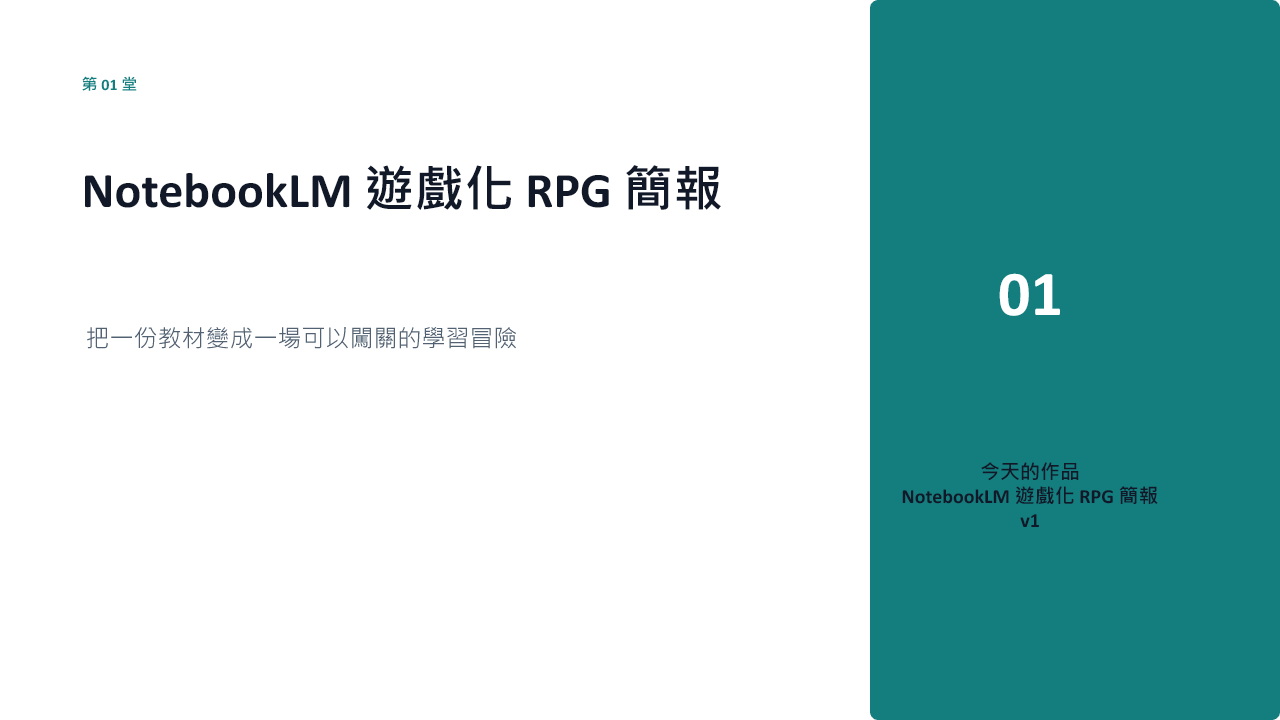
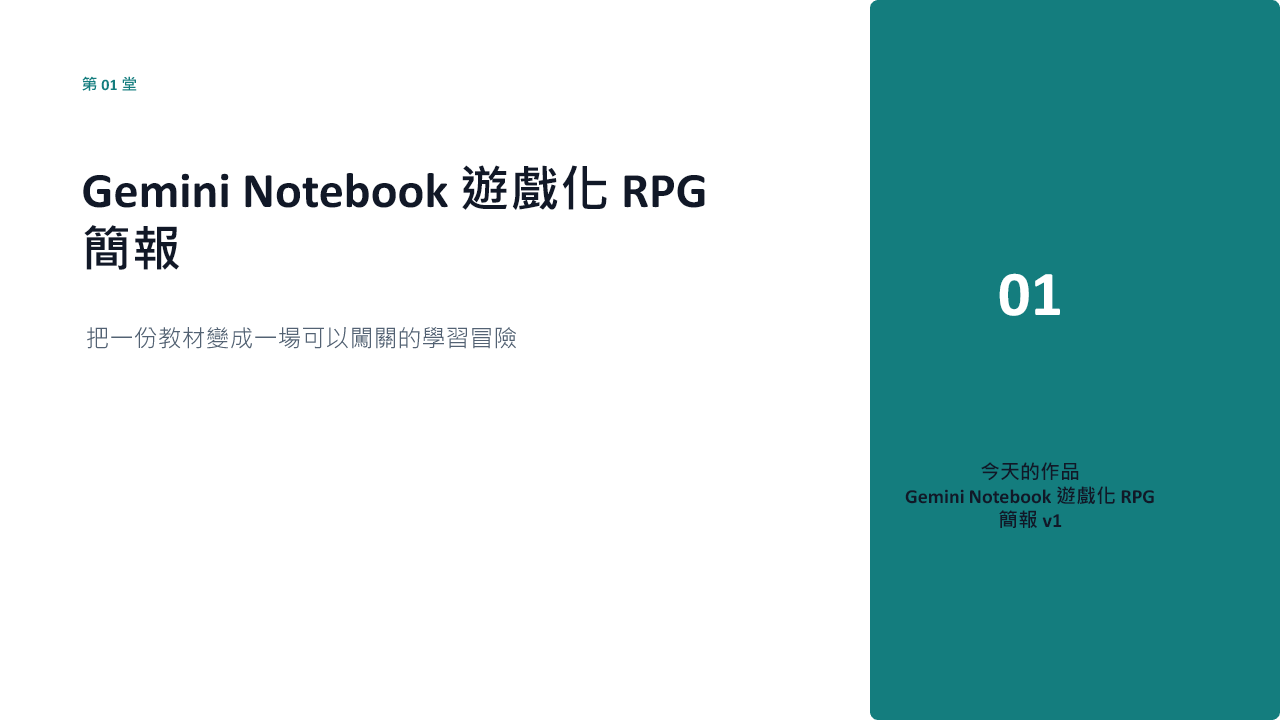
Rename lesson one to Gemini Notebook

Changed region(s): [[0.0625, 0.2139, 0.5625, 0.3667], [0.6875, 0.6722, 0.9062, 0.7333]]

diff --git a/class/index.html b/class/index.html
@@ -1,1 +1,1 @@
-<!doctype html><html lang="zh-Hant"><head><meta charset="utf-8"><meta name="viewport" content="width=device-width,initial-scale=1"><title>AI 工具實戰進階班｜CALUMAI</title><meta name="description" content="12 堂 AI 工具實戰進階課程"><link rel="stylesheet" href="/class/styles.css"></head><body><header><div class="shell nav"><a class="brand" href="/">CALUMAI <span>/ CLASS</span></a><nav><a href="#overview">總覽</a><a href="#lessons">12 堂</a><a href="#capstone">期末</a></nav></div></header><main><section class="hero shell" id="overview"><p class="eyebrow">AI TOOL PRACTICE / ADVANCED CLASS</p><h1>把 AI 工具，變成<br><em>你的教學與創作系統。</em></h1><p class="lede">12 堂從資料、工具、作品到發表的進階實戰課。每堂都有完整 PPT、課堂實作、提示詞與可驗收成果。</p><div class="chips"><span>12 堂完整課程</span><span>每堂一份 PPT</span><span>作品導向</span></div></section><section class="path shell"><div><b>01</b>NotebookLM RPG</div><i>→</i><div><b>02</b>Gemini 排課</div><i>→</i><div><b>03–05</b>題庫、自動化、上架</div><i>→</i><div><b>06–10</b>遊戲、Padlet、Vids</div><i>→</i><div><b>11–12</b>工具箱與發表</div></section><section class="lessons shell" id="lessons"><p class="eyebrow">THE 12 MISSIONS</p><h2>每一堂，都有一個可驗收成果。</h2><article class="l teal" id="lesson-01"><b class="no">01</b><div><small>NOTEBOOKLM / GAME DESIGN</small><h3>NotebookLM 遊戲化 RPG 簡報</h3><p>把教材轉成世界觀、角色、任務與關卡，完成 8–12 張 RPG 簡報。</p><dl><dt>學會</dt><dd>遊戲化規則、來源控管、任務設計</dd><dt>實作</dt><dd>用太魯閣語上課用語 PDF 做案例</dd><dt>交付</dt><dd>RPG 簡報 v1、來源與提問紀錄</dd></dl><a href="/class/lesson-01.html">查看第 1 堂 PPT、講義與提示詞</a></div></article><article class="l gold" id="lesson-02"><b class="no">02</b><div><small>GEMINI / PLANNING</small><h3>活用 Gemini：製作自己的排課行事曆</h3><p>整理課程、時段、地點與規則，讓 Gemini 協助找出衝堂並設計行事曆。</p><dl><dt>學會</dt><dd>需求拆解、欄位設計、排課規則</dd><dt>實作</dt><dd>建立自己的課程與時段資料</dd><dt>交付</dt><dd>排課行事曆原型與使用說明</dd></dl><a href="/class/lesson-02.html">查看第 2 堂 PPT、講義與提示詞</a></div></article><article class="l blue" id="lesson-03"><b class="no">03</b><div><small>VIBE CODING / PRODUCT</small><h3>Vibe 你的題庫：題庫產品設計</h3><p>用自然語言把題庫想法拆成使用者、題型、欄位、畫面流程與 MVP。</p><dl><dt>學會</dt><dd>用 Gemini 寫需求 brief</dd><dt>實作</dt><dd>規劃題庫資料結構與畫面</dd><dt>交付</dt><dd>需求 brief、欄位表、畫面草圖</dd></dl><a href="/class/lesson-03.html">查看第 3 堂 PPT、講義與提示詞</a></div></article><article class="l blue" id="lesson-04"><b class="no">04</b><div><small>GEMINI + GAS / AUTOMATION</small><h3>Gemini + GAS 自動化題庫</h3><p>讓題庫自動產生、整理、評分與留下紀錄，加入批次與錯誤處理。</p><dl><dt>學會</dt><dd>Apps Script、提示詞模板、結構化輸出</dd><dt>實作</dt><dd>Google Sheet 串接 Gemini</dd><dt>交付</dt><dd>題庫自動化工具與測試報告</dd></dl><a href="/class/lesson-04.html">查看第 4 堂 PPT、講義與提示詞</a></div></article><article class="l teal" id="lesson-05"><b class="no">05</b><div><small>GOOGLE SITES / NETLIFY</small><h3>讓你的網頁活起來：Google 協作平台與 Netlify 上架</h3><p>把作品整理成網站，學會導覽、嵌入、權限、預覽、發布與部署。</p><dl><dt>學會</dt><dd>內容結構、嵌入與發布檢查</dd><dt>實作</dt><dd>Google Sites 或 Netlify 上架</dd><dt>交付</dt><dd>可開啟、可分享的線上作品</dd></dl><a href="/class/lesson-05.html">查看第 5 堂 PPT、講義與提示詞</a></div></article><article class="l gold" id="lesson-06"><b class="no">06</b><div><small>GAME GENERATION / FIVE FORMS</small><h3>一份教材生出 5 種遊戲：生成方法</h3><p>用同一份教材生成 RPG、卡牌、密室逃脫、模擬經營與偵探解謎。</p><dl><dt>學會</dt><dd>教材 × 任務 × 挑戰的轉換公式</dd><dt>實作</dt><dd>生成五種遊戲提案</dd><dt>交付</dt><dd>五種遊戲比較表</dd></dl><a href="/class/lesson-06.html">查看第 6 堂 PPT、講義與提示詞</a></div></article><article class="l gold" id="lesson-07"><b class="no">07</b><div><small>GAME PROTOTYPE / PLAYTEST</small><h3>一份教材生出 5 種遊戲：比較與實作</h3><p>依教材貼合度、課堂可行性、參與度、成本與評量清楚度選出一種並試玩。</p><dl><dt>學會</dt><dd>用評分表做遊戲選擇</dd><dt>實作</dt><dd>完成 10 分鐘最小可玩原型</dd><dt>交付</dt><dd>選擇評分表與遊戲原型</dd></dl><a href="/class/lesson-07.html">查看第 7 堂 PPT、講義與提示詞</a></div></article><article class="l teal" id="lesson-08"><b class="no">08</b><div><small>GEMINI / PADLET</small><h3>什麼？我可以用 Gemini 製作自己的 Padlet？</h3><p>用 Gemini 規劃 Padlet 欄位、學生任務、發文格式、同儕回饋與教師總結。</p><dl><dt>學會</dt><dd>課堂協作牆的設計邏輯</dd><dt>實作</dt><dd>建立四欄以上 Padlet 活動</dd><dt>交付</dt><dd>Padlet 規劃、模板與活動流程</dd></dl><a href="/class/lesson-08.html">查看第 8 堂 PPT、講義與提示詞</a></div></article><article class="l red" id="lesson-09"><b class="no">09</b><div><small>GOOGLE VIDS / FLASHCARDS</small><h3>Google Vids：單字與會話圖卡影片</h3><p>把文字教材拆成圖卡、字幕、旁白與互動複習，完成至少 6 幕影片。</p><dl><dt>學會</dt><dd>分鏡、字幕、旁白與節奏</dd><dt>實作</dt><dd>製作單字與會話影片</dd><dt>交付</dt><dd>圖卡影片初版</dd></dl><a href="/class/lesson-09.html">查看第 9 堂 PPT、講義與提示詞</a></div></article><article class="l red" id="lesson-10"><b class="no">10</b><div><small>GOOGLE VIDS / AUDIOBOOK</small><h3>Google Vids：故事有聲書</h3><p>把故事教材變成有畫面、有旁白、有角色對話與片尾理解問題的影片。</p><dl><dt>學會</dt><dd>故事分幕、腳本、旁白與音效</dd><dt>實作</dt><dd>完成 8–10 幕故事影片</dd><dt>交付</dt><dd>2–3 分鐘故事有聲書</dd></dl><a href="/class/lesson-10.html">查看第 10 堂 PPT、講義與提示詞</a></div></article><article class="l blue" id="lesson-11"><b class="no">11</b><div><small>TEACHER WORKBENCH / SOP</small><h3>打造你的備課工具箱</h3><p>把 NotebookLM、Gemini、GAS、Padlet、Vids 與簡報組成可重複使用的備課 SOP。</p><dl><dt>學會</dt><dd>從資料入口到成果出口的流程設計</dd><dt>實作</dt><dd>建立工具箱地圖與模板包</dd><dt>交付</dt><dd>一頁式備課 SOP</dd></dl><a href="/class/lesson-11.html">查看第 11 堂 PPT、講義與提示詞</a></div></article><article class="l navy" id="lesson-12"><b class="no">12</b><div><small>CAPSTONE / PRESENTATION</small><h3>期末發表</h3><p>用 5–8 分鐘說清楚問題、方法、工具、成果證據、人工檢查、限制與下一步。</p><dl><dt>學會</dt><dd>作品敘事、Demo、問答與反思</dd><dt>實作</dt><dd>正式發表與同儕回饋</dd><dt>交付</dt><dd>作品包、簡報、README、反思</dd></dl><a href="/class/lesson-12.html">查看第 12 堂 PPT、講義與提示詞</a></div></article></section><section class="supplement shell" id="supplement"><p class="eyebrow">補充資源</p><h2>AI Handout：把課程內容整理成可操作的教學手冊</h2><p>這是一個課程延伸工具，可用來瀏覽與整理 AI 教學資源。</p><a href="https://aihandout-lexjxdgq.manus.space/" target="_blank" rel="noopener">開啟 AI Handout 補充網站 ↗</a></section></main><footer class="shell"><span>CALUMAI / AI 工具實戰進階班</span><a href="/">回到 CALUMAI</a></footer></body></html>
+<!doctype html><html lang="zh-Hant"><head><meta charset="utf-8"><meta name="viewport" content="width=device-width,initial-scale=1"><title>AI 工具實戰進階班｜CALUMAI</title><meta name="description" content="12 堂 AI 工具實戰進階課程"><link rel="stylesheet" href="/class/styles.css"></head><body><header><div class="shell nav"><a class="brand" href="/">CALUMAI <span>/ CLASS</span></a><nav><a href="#overview">總覽</a><a href="#lessons">12 堂</a><a href="#capstone">期末</a></nav></div></header><main><section class="hero shell" id="overview"><p class="eyebrow">AI TOOL PRACTICE / ADVANCED CLASS</p><h1>把 AI 工具，變成<br><em>你的教學與創作系統。</em></h1><p class="lede">12 堂從資料、工具、作品到發表的進階實戰課。每堂都有完整 PPT、課堂實作、提示詞與可驗收成果。</p><div class="chips"><span>12 堂完整課程</span><span>每堂一份 PPT</span><span>作品導向</span></div></section><section class="path shell"><div><b>01</b>Gemini Notebook RPG</div><i>→</i><div><b>02</b>Gemini 排課</div><i>→</i><div><b>03–05</b>題庫、自動化、上架</div><i>→</i><div><b>06–10</b>遊戲、Padlet、Vids</div><i>→</i><div><b>11–12</b>工具箱與發表</div></section><section class="lessons shell" id="lessons"><p class="eyebrow">THE 12 MISSIONS</p><h2>每一堂，都有一個可驗收成果。</h2><article class="l teal" id="lesson-01"><b class="no">01</b><div><small>GEMINI NOTEBOOK / GAME DESIGN</small><h3>Gemini Notebook 遊戲化 RPG 簡報</h3><p>把教材轉成世界觀、角色、任務與關卡，完成 8–12 張 RPG 簡報。</p><dl><dt>學會</dt><dd>遊戲化規則、來源控管、任務設計</dd><dt>實作</dt><dd>用太魯閣語上課用語 PDF 做案例</dd><dt>交付</dt><dd>RPG 簡報 v1、來源與提問紀錄</dd></dl><a href="/class/lesson-01.html">查看第 1 堂 PPT、講義與提示詞</a></div></article><article class="l gold" id="lesson-02"><b class="no">02</b><div><small>GEMINI / PLANNING</small><h3>活用 Gemini：製作自己的排課行事曆</h3><p>整理課程、時段、地點與規則，讓 Gemini 協助找出衝堂並設計行事曆。</p><dl><dt>學會</dt><dd>需求拆解、欄位設計、排課規則</dd><dt>實作</dt><dd>建立自己的課程與時段資料</dd><dt>交付</dt><dd>排課行事曆原型與使用說明</dd></dl><a href="/class/lesson-02.html">查看第 2 堂 PPT、講義與提示詞</a></div></article><article class="l blue" id="lesson-03"><b class="no">03</b><div><small>VIBE CODING / PRODUCT</small><h3>Vibe 你的題庫：題庫產品設計</h3><p>用自然語言把題庫想法拆成使用者、題型、欄位、畫面流程與 MVP。</p><dl><dt>學會</dt><dd>用 Gemini 寫需求 brief</dd><dt>實作</dt><dd>規劃題庫資料結構與畫面</dd><dt>交付</dt><dd>需求 brief、欄位表、畫面草圖</dd></dl><a href="/class/lesson-03.html">查看第 3 堂 PPT、講義與提示詞</a></div></article><article class="l blue" id="lesson-04"><b class="no">04</b><div><small>GEMINI + GAS / AUTOMATION</small><h3>Gemini + GAS 自動化題庫</h3><p>讓題庫自動產生、整理、評分與留下紀錄，加入批次與錯誤處理。</p><dl><dt>學會</dt><dd>Apps Script、提示詞模板、結構化輸出</dd><dt>實作</dt><dd>Google Sheet 串接 Gemini</dd><dt>交付</dt><dd>題庫自動化工具與測試報告</dd></dl><a href="/class/lesson-04.html">查看第 4 堂 PPT、講義與提示詞</a></div></article><article class="l teal" id="lesson-05"><b class="no">05</b><div><small>GOOGLE SITES / NETLIFY</small><h3>讓你的網頁活起來：Google 協作平台與 Netlify 上架</h3><p>把作品整理成網站，學會導覽、嵌入、權限、預覽、發布與部署。</p><dl><dt>學會</dt><dd>內容結構、嵌入與發布檢查</dd><dt>實作</dt><dd>Google Sites 或 Netlify 上架</dd><dt>交付</dt><dd>可開啟、可分享的線上作品</dd></dl><a href="/class/lesson-05.html">查看第 5 堂 PPT、講義與提示詞</a></div></article><article class="l gold" id="lesson-06"><b class="no">06</b><div><small>GAME GENERATION / FIVE FORMS</small><h3>一份教材生出 5 種遊戲：生成方法</h3><p>用同一份教材生成 RPG、卡牌、密室逃脫、模擬經營與偵探解謎。</p><dl><dt>學會</dt><dd>教材 × 任務 × 挑戰的轉換公式</dd><dt>實作</dt><dd>生成五種遊戲提案</dd><dt>交付</dt><dd>五種遊戲比較表</dd></dl><a href="/class/lesson-06.html">查看第 6 堂 PPT、講義與提示詞</a></div></article><article class="l gold" id="lesson-07"><b class="no">07</b><div><small>GAME PROTOTYPE / PLAYTEST</small><h3>一份教材生出 5 種遊戲：比較與實作</h3><p>依教材貼合度、課堂可行性、參與度、成本與評量清楚度選出一種並試玩。</p><dl><dt>學會</dt><dd>用評分表做遊戲選擇</dd><dt>實作</dt><dd>完成 10 分鐘最小可玩原型</dd><dt>交付</dt><dd>選擇評分表與遊戲原型</dd></dl><a href="/class/lesson-07.html">查看第 7 堂 PPT、講義與提示詞</a></div></article><article class="l teal" id="lesson-08"><b class="no">08</b><div><small>GEMINI / PADLET</small><h3>什麼？我可以用 Gemini 製作自己的 Padlet？</h3><p>用 Gemini 規劃 Padlet 欄位、學生任務、發文格式、同儕回饋與教師總結。</p><dl><dt>學會</dt><dd>課堂協作牆的設計邏輯</dd><dt>實作</dt><dd>建立四欄以上 Padlet 活動</dd><dt>交付</dt><dd>Padlet 規劃、模板與活動流程</dd></dl><a href="/class/lesson-08.html">查看第 8 堂 PPT、講義與提示詞</a></div></article><article class="l red" id="lesson-09"><b class="no">09</b><div><small>GOOGLE VIDS / FLASHCARDS</small><h3>Google Vids：單字與會話圖卡影片</h3><p>把文字教材拆成圖卡、字幕、旁白與互動複習，完成至少 6 幕影片。</p><dl><dt>學會</dt><dd>分鏡、字幕、旁白與節奏</dd><dt>實作</dt><dd>製作單字與會話影片</dd><dt>交付</dt><dd>圖卡影片初版</dd></dl><a href="/class/lesson-09.html">查看第 9 堂 PPT、講義與提示詞</a></div></article><article class="l red" id="lesson-10"><b class="no">10</b><div><small>GOOGLE VIDS / AUDIOBOOK</small><h3>Google Vids：故事有聲書</h3><p>把故事教材變成有畫面、有旁白、有角色對話與片尾理解問題的影片。</p><dl><dt>學會</dt><dd>故事分幕、腳本、旁白與音效</dd><dt>實作</dt><dd>完成 8–10 幕故事影片</dd><dt>交付</dt><dd>2–3 分鐘故事有聲書</dd></dl><a href="/class/lesson-10.html">查看第 10 堂 PPT、講義與提示詞</a></div></article><article class="l blue" id="lesson-11"><b class="no">11</b><div><small>TEACHER WORKBENCH / SOP</small><h3>打造你的備課工具箱</h3><p>把 NotebookLM、Gemini、GAS、Padlet、Vids 與簡報組成可重複使用的備課 SOP。</p><dl><dt>學會</dt><dd>從資料入口到成果出口的流程設計</dd><dt>實作</dt><dd>建立工具箱地圖與模板包</dd><dt>交付</dt><dd>一頁式備課 SOP</dd></dl><a href="/class/lesson-11.html">查看第 11 堂 PPT、講義與提示詞</a></div></article><article class="l navy" id="lesson-12"><b class="no">12</b><div><small>CAPSTONE / PRESENTATION</small><h3>期末發表</h3><p>用 5–8 分鐘說清楚問題、方法、工具、成果證據、人工檢查、限制與下一步。</p><dl><dt>學會</dt><dd>作品敘事、Demo、問答與反思</dd><dt>實作</dt><dd>正式發表與同儕回饋</dd><dt>交付</dt><dd>作品包、簡報、README、反思</dd></dl><a href="/class/lesson-12.html">查看第 12 堂 PPT、講義與提示詞</a></div></article></section><section class="supplement shell" id="supplement"><p class="eyebrow">補充資源</p><h2>AI Handout：把課程內容整理成可操作的教學手冊</h2><p>這是一個課程延伸工具，可用來瀏覽與整理 AI 教學資源。</p><a href="https://aihandout-lexjxdgq.manus.space/" target="_blank" rel="noopener">開啟 AI Handout 補充網站 ↗</a></section></main><footer class="shell"><span>CALUMAI / AI 工具實戰進階班</span><a href="/">回到 CALUMAI</a></footer></body></html>

diff --git a/class/lesson.js b/class/lesson.js
@@ -1,5 +1,5 @@
 const DATA={
-'01':{title:'NotebookLM 遊戲化 RPG 簡報',tag:'NOTEBOOKLM / GAME DESIGN',accent:'#147d7e',lede:'把一份教材變成一場可以闖關、練習與展示的學習冒險。',goals:['理解遊戲化的目標、任務、挑戰、回饋與成長','用 NotebookLM 整理真實教材與來源','完成 8–12 張 RPG 簡報初版'],steps:['上傳「112年情境族語｜01上課用語｜太魯閣語」PDF','請 NotebookLM 先整理對話、單詞與互動測驗','設計玩家、世界觀、任務線與三個關卡','要求 NotebookLM 生成簡報大綱','人工核對太魯閣語與中文意思'],practice:'把 PDF 中的對話練習、單詞練習與互動測驗轉成三個 RPG 關卡。',output:'NotebookLM 遊戲化 RPG 簡報 v1',prompts:['請根據我上傳的教材，整理所有語言資料、中文意思、使用情境與頁碼。只能使用來源中確認的內容，不可以自行猜測或補寫。','請把這份教材設計成適合國中生的 RPG。請提供世界觀、角色、3 個任務、挑戰、回饋、獎勵與勝利條件，並區分教材資料與故事設定。','請檢查這份 RPG 簡報：哪些語言內容有來源？哪些可能是推測？請列出需要族語教師人工確認的地方。'],source:'使用者提供的 112 年情境族語 PDF'},
+'01':{title:'Gemini Notebook 遊戲化 RPG 簡報',tag:'GEMINI NOTEBOOK / GAME DESIGN',accent:'#147d7e',lede:'把一份教材變成一場可以闖關、練習與展示的學習冒險。',goals:['理解遊戲化的目標、任務、挑戰、回饋與成長','用 Gemini Notebook 整理真實教材與來源','完成 8–12 張 RPG 簡報初版'],steps:['上傳「112年情境族語｜01上課用語｜太魯閣語」PDF','請 Gemini Notebook 先整理對話、單詞與互動測驗','設計玩家、世界觀、任務線與三個關卡','要求 Gemini Notebook 生成簡報大綱','人工核對太魯閣語與中文意思'],practice:'把 PDF 中的對話練習、單詞練習與互動測驗轉成三個 RPG 關卡。',output:'Gemini Notebook 遊戲化 RPG 簡報 v1',prompts:['請根據我上傳的教材，整理所有語言資料、中文意思、使用情境與頁碼。只能使用來源中確認的內容，不可以自行猜測或補寫。','請把這份教材設計成適合國中生的 RPG。請提供世界觀、角色、3 個任務、挑戰、回饋、獎勵與勝利條件，並區分教材資料與故事設定。','請檢查這份 RPG 簡報：哪些語言內容有來源？哪些可能是推測？請列出需要族語教師人工確認的地方。'],source:'使用者提供的 112 年情境族語 PDF'},
 '02':{title:'活用 Gemini：製作自己的排課行事曆',tag:'GEMINI / PLANNING',accent:'#e3a62f',lede:'把課程規則變成一個可操作、可維護的個人排課系統。',goals:['把自然語言需求拆成資料欄位','讓 Gemini 協助整理排課規則與衝堂條件','完成自己的排課行事曆原型'],steps:['列出課程、班級、教師、地點與時段','請 Gemini 找出缺少的條件與衝堂風險','建立 Google Sheet 欄位','請 Gemini 產生排課規則與操作說明','用兩組衝堂資料測試'],practice:'建立至少 5 門課、3 種時段、2 個教室與 2 個可能衝堂案例。',output:'排課行事曆原型、欄位表與使用說明',prompts:['請把我的排課需求拆成資料欄位、必要規則、限制條件與待確認問題。','請根據以下課程資料，找出時間、教師、教室與班級衝堂，並提出三種修正方案。不要自行假設未提供的資訊。','請幫我寫一份排課行事曆的使用說明與測試案例，讓另一位老師可以接手。'],source:'Gemini 課程設計示範；實際 Gemini 功能依帳號介面為準'},
 '03':{title:'Vibe 你的題庫：題庫產品設計',tag:'VIBE CODING / PRODUCT',accent:'#3d8dff',lede:'用自然語言把一個題庫想法變成可開發、可驗收的產品規格。',goals:['拆解使用者與真正問題','規劃題型、欄位、畫面與操作流程','用 Gemini 產出第一版 MVP brief'],steps:['描述誰會使用題庫','定義題型、難度、答案與解析','規劃新增、作答、檢查與成績流程','請 Gemini 產生需求 brief','刪掉第一版不必要功能'],practice:'設計一個自己的題庫，至少包含 2 種題型、3 種難度與成績紀錄。',output:'題庫需求 brief、欄位表與畫面草圖',prompts:['你是產品經理。請把我的題庫想法拆成使用者、問題、功能、資料欄位、畫面流程與 MVP。遇到未知資訊請列出問題。','請將這份題庫需求改成開發者可以執行的 user stories 與驗收標準。','請檢查這個題庫 MVP 是否過大，提出可以延後的功能。'],source:'課程自製方法與學員真實題目'},
 '04':{title:'Gemini + GAS 自動化題庫',tag:'GEMINI + GAS / AUTOMATION',accent:'#3d8dff',lede:'讓題庫可以自動產生、整理、評分、批次處理並留下紀錄。',goals:['理解 Google Sheet、GAS 與 Gemini 的資料流','設計提示詞模板與結構化輸出','加入錯誤處理、測試與人工抽查'],steps:['建立題庫輸入、輸出與狀態欄位','設計固定格式的 Gemini 提示詞','用 GAS 讀取資料並呼叫模型','將結果寫回指定欄位','測試空白、錯誤與重複資料'],practice:'讓系統根據 3 個主題各產生 5 題，保留版本、來源與檢查狀態。',output:'可重複執行的題庫自動化工具與測試報告',prompts:['請協助我設計 Google Apps Script 題庫自動化流程，輸入為主題與難度，輸出為題目、選項、答案、解析與標籤。','請把這個 Gemini 題庫輸出限制成嚴格 JSON，並列出格式錯誤時的處理方式。','請幫我建立題庫自動化的測試案例，包含成功、空白、重複與模型輸出錯誤。'],source:'Google Apps Script 與 Gemini 實作課程；API 權限需依帳號設定'},
